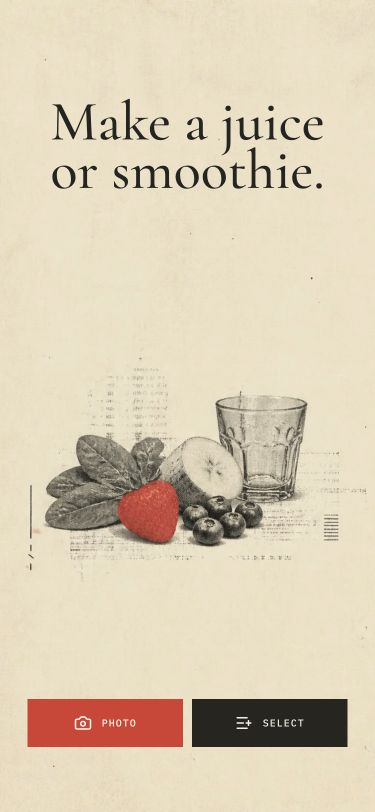
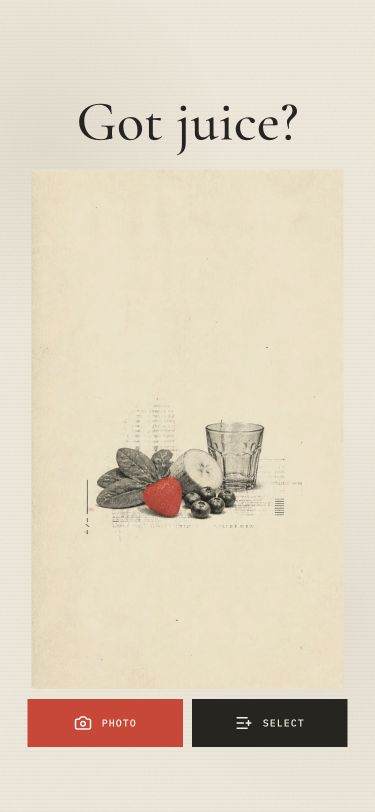
Tighten landing and photo entry

diff --git a/src/components/PhotoCapture.tsx b/src/components/PhotoCapture.tsx
@@ -1,4 +1,4 @@
-import { ArrowLeft, Camera, ImageUp, LoaderCircle, ScanLine, X } from 'lucide-react'
+import { Camera, ImageUp, LoaderCircle, ScanLine, X } from 'lucide-react'
 import { useEffect, useRef, useState, type ChangeEvent } from 'react'
 import type { Ingredient } from '../data/ingredients'
 import { identifyIngredientsFromPhoto } from '../lib/openai'
@@ -11,7 +11,6 @@ type Detection = {
 
 type Props = {
   catalog: Ingredient[]
-  onBack: () => void
   onDetected: (result: Detection) => void
 }
 
@@ -38,7 +37,7 @@ const resizeImage = (dataUrl: string) => new Promise<string>((resolve) => {
   image.src = dataUrl
 })
 
-export function PhotoCapture({ catalog, onBack, onDetected }: Props) {
+export function PhotoCapture({ catalog, onDetected }: Props) {
   const uploadRef = useRef<HTMLInputElement>(null)
   const videoRef = useRef<HTMLVideoElement>(null)
   const streamRef = useRef<MediaStream | null>(null)
@@ -108,34 +107,16 @@ export function PhotoCapture({ catalog, onBack, onDetected }: Props) {
 
   return (
     <section className="capture-page">
-      <header className="editor-header">
-        <button type="button" className="icon-button" onClick={onBack} aria-label="Go back" title="Go back">
-          <ArrowLeft size={19} />
-        </button>
-        <p>COUNTER STUDY / CAMERA</p>
-        <span>01 FRAME</span>
-      </header>
-
-      <div className="capture-shell">
+      <div className={`capture-shell${mode === 'intro' ? ' capture-shell--intro' : ''}`}>
         {mode === 'intro' ? (
-          <>
-            <div className="capture-copy">
-              <p className="zine-kicker">Gather everything into one frame</p>
-              <h1>Show us what<br />you are working with.</h1>
-              <p>Good daylight helps. Keep labels visible and ingredients separate where you can.</p>
-            </div>
-
-            <img className="capture-study-image" src="/assets/zine-produce-study.webp" alt="Printed study of smoothie ingredients" />
-
-            <div className="capture-actions">
-              <button type="button" className="zine-button zine-button--accent" onClick={startCamera}>
-                <Camera size={19} /> Take a photo
-              </button>
-              <button type="button" className="zine-button zine-button--paper" onClick={() => uploadRef.current?.click()}>
-                <ImageUp size={19} /> Upload a photo
-              </button>
-            </div>
-          </>
+          <div className="capture-actions">
+            <button type="button" className="zine-button zine-button--accent" onClick={startCamera}>
+              <Camera size={19} /> Take a Photo
+            </button>
+            <button type="button" className="zine-button zine-button--paper" onClick={() => uploadRef.current?.click()}>
+              <ImageUp size={19} /> Upload a Photo
+            </button>
+          </div>
         ) : null}
 
         {mode === 'camera' ? (

diff --git a/src/index.css b/src/index.css
@@ -100,7 +100,7 @@ button:disabled { cursor: not-allowed; }
   overflow: hidden;
   background-image: url('/assets/zine-produce-study.webp');
   background-position: center 58%;
-  background-size: cover;
+  background-size: auto 64%;
   background-repeat: no-repeat;
 }
 
@@ -334,25 +334,12 @@ button:disabled { cursor: not-allowed; }
 .capture-shell {
   position: relative;
   width: min(100%, 900px);
-  min-height: calc(100svh - 105px);
-  margin: 3svh auto 0;
+  min-height: calc(100svh - 56px);
+  margin: 0 auto;
 }
 
-.capture-copy { position: relative; z-index: 2; width: min(100%, 590px); margin: 8svh auto 0; text-align: center; }
-.capture-copy h1 { font-size: clamp(44px, 11vw, 76px); line-height: 0.88; }
-.capture-copy > p:last-child { width: min(100%, 440px); margin: 22px auto 0; color: var(--faded); font-family: 'Special Elite', serif; font-size: 12px; line-height: 1.6; }
-
-.capture-study-image {
-  display: block;
-  width: min(76vw, 340px);
-  height: 230px;
-  margin: 18px auto -2px;
-  object-fit: cover;
-  object-position: 50% 68%;
-  mix-blend-mode: multiply;
-}
-
-.capture-actions { display: grid; gap: 9px; width: min(100%, 390px); margin: 0 auto; }
+.capture-shell--intro { display: grid; place-items: center; }
+.capture-actions { display: grid; gap: 10px; width: min(100%, 280px); }
 .capture-error { width: min(100%, 540px); margin: 16px auto; color: #9f2d25; font-size: 10px; line-height: 1.5; text-align: center; }
 
 .camera-stage {
@@ -441,7 +428,6 @@ button:disabled { cursor: not-allowed; }
   .ingredient-row:nth-child(odd) { border-right: 1px solid var(--hairline); }
   .editor-actions { grid-template-columns: 1fr auto 210px; }
   .confirm-button { grid-column: auto; }
-  .capture-actions { grid-template-columns: 1fr 1fr; width: 600px; }
   .recipe-grid { display: grid; grid-template-columns: 0.8fr 1.2fr; column-gap: 70px; }
   .recipe-title, .nutrition-strip, .grandma-note { grid-column: 1 / -1; }
   .recipe-ingredients { grid-column: 1; }

diff --git a/src/components/ZineLanding.tsx b/src/components/ZineLanding.tsx
@@ -9,7 +9,7 @@ export function ZineLanding({ onPhoto, onChoose }: Props) {
   return (
     <section className="landing-page">
       <div className="landing-copy">
-        <h1>Make a juice<br />or smoothie.</h1>
+        <h1>Got juice?</h1>
 
         <div className="landing-actions" aria-label="Start a smoothie recipe">
           <button type="button" className="zine-button zine-button--accent" onClick={onPhoto}>

diff --git a/src/App.tsx b/src/App.tsx
@@ -73,7 +73,6 @@ function App() {
           {view === 'photo' ? (
             <PhotoCapture
               catalog={ingredients}
-              onBack={() => setView('landing')}
               onDetected={({ preview, detected, message }) => {
                 setPhoto(preview)
                 setSelected(detected)

diff --git a/design-qa.md b/design-qa.md
@@ -5,7 +5,7 @@
 - Source visual truth: `/var/folders/rf/kb7vbr1n0dvdj882p6twxsrw0000gn/T/codex-clipboard-0f1d4b3f-80aa-4123-a3c5-47ce35d7af6a.png`
 - Primary implementation: `design-mobile-landing.png`
 - Combined comparison: `design-qa-comparison.png`
-- Supporting states: `design-mobile-photo-review.png`, `design-mobile-recipe.png`, `design-desktop-landing.png`
+- Supporting states: `design-mobile-photo-entry.png`, `design-mobile-photo-review.png`, `design-mobile-recipe.png`, `design-desktop-landing.png`
 - Source dimensions: 972 x 1619 px
 - Mobile implementation: 375 x 812 CSS px, 375 x 812 px capture, device scale factor 1
 - Desktop implementation: 1440 x 900 CSS px, 1440 x 900 px capture, device scale factor 1
@@ -13,11 +13,12 @@
 
 ## Full-View Comparison
 
-The combined comparison shows the supplied artwork and mobile implementation at the same 812 px height. The artwork now fills the viewport directly, preserving the ivory paper field, central produce cluster, red fruit anchor, and negative space. The only interface copy is the requested title and the two compact actions, keeping the landing page materially as quiet as the source.
+The combined comparison shows the supplied artwork and mobile implementation at the same 812 px height. The produce study is intentionally scaled down inside the ivory paper field, preserving the central cluster and red fruit anchor while restoring more negative space. The only landing copy is the requested title and two compact actions.
 
 ## Focused Evidence
 
 - `design-mobile-photo-review.png` verifies the uploaded image, retake action, search field, editable ingredient ledger, clear state, and confirm action in a 375 px layout.
+- `design-mobile-photo-entry.png` verifies that the first Photo screen contains only the centered “Take a Photo” and “Upload a Photo” actions.
 - `design-mobile-recipe.png` verifies calorie and macro estimates, ingredient quantities, numbered steps, Grandma's Note, progressive typewriter content, and readable narrow-screen wrapping.
 - `design-desktop-landing.png` verifies that the sparse attention geometry remains intact at 1440 px without horizontal overflow.
 
@@ -27,13 +28,14 @@ The combined comparison shows the supplied artwork and mobile implementation at 
 - Spacing and layout rhythm: the primary cluster stays centered with broad paper margins. Mobile controls remain within 335 px, while desktop content holds a restrained 520-620 px working width.
 - Colors and tokens: warm ivory paper, charcoal ink, faded gray metadata, and one tomato-red action/selection color match the reference's restrained palette logic.
 - Image quality and asset fidelity: the generated produce study is a real raster asset with halftone, xerox wear, aged paper, and a visible red fruit anchor. It is correctly cropped at mobile and desktop sizes.
-- Copy and content: the landing page contains only “Make a juice or smoothie.”, “Photo”, and “Select”. Header metadata, side notes, caption, kicker, and descriptive paragraph are absent.
+- Copy and content: the landing page contains only “Got juice?”, “Photo”, and “Select”. The first Photo screen contains only “Take a Photo” and “Upload a Photo”.
 
 ## Comparison History
 
 - P2: ingredient rows initially exposed a list-item role instead of their interactive button semantics. Removed the conflicting role, rebuilt, redeployed, and verified search, selection, and confirmation through role-based browser interaction.
 - P2: the first mobile capture occurred before the 4.5 MB visual anchor finished decoding. Re-captured after load and confirmed the final implementation screenshot includes the produce study with stable reserved dimensions.
 - P2: the first landing direction contained substantially more editorial copy and treated the produce study as an inset figure. Replaced it with the artwork as a full-viewport background and reduced the visible interface to one title and two actions. Mobile and desktop captures confirm the cluster remains visible without overflow.
+- P2: the full-background crop made the fruit cluster too visually dominant. Reduced the artwork to 64% of the viewport height and verified the smaller composition at 375 x 812 and 1440 x 900 without overflow.
 
 ## Findings
 
